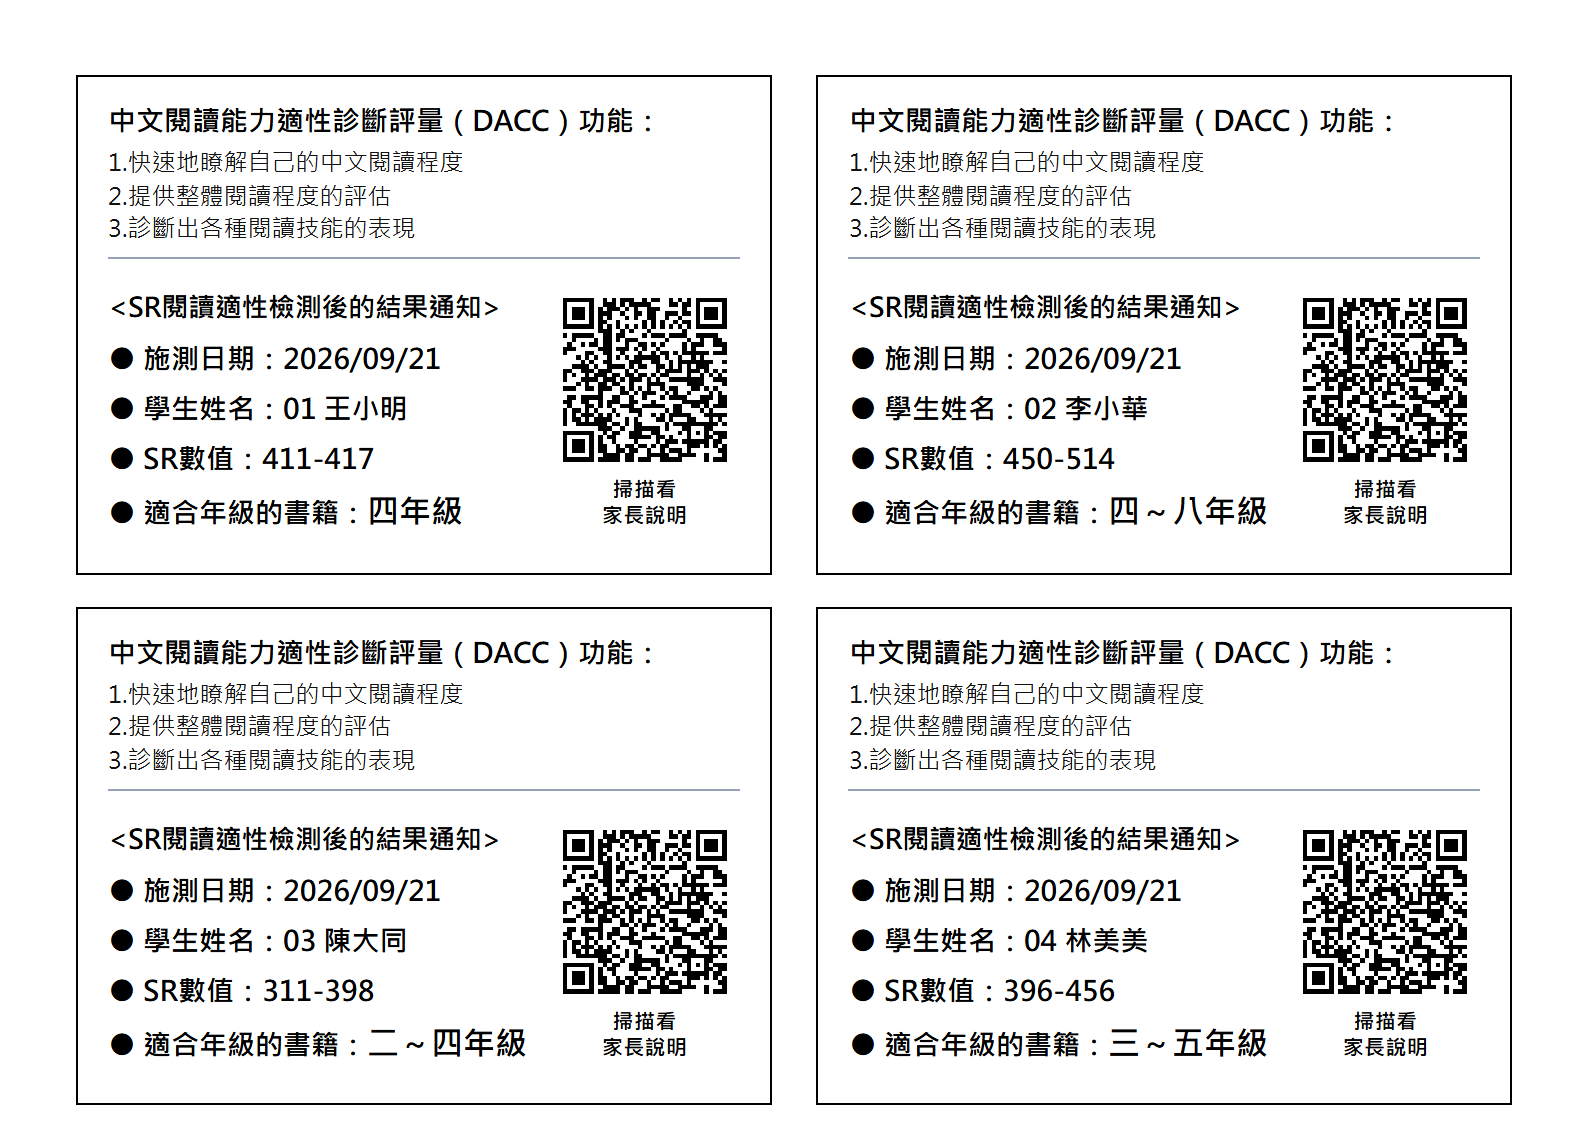
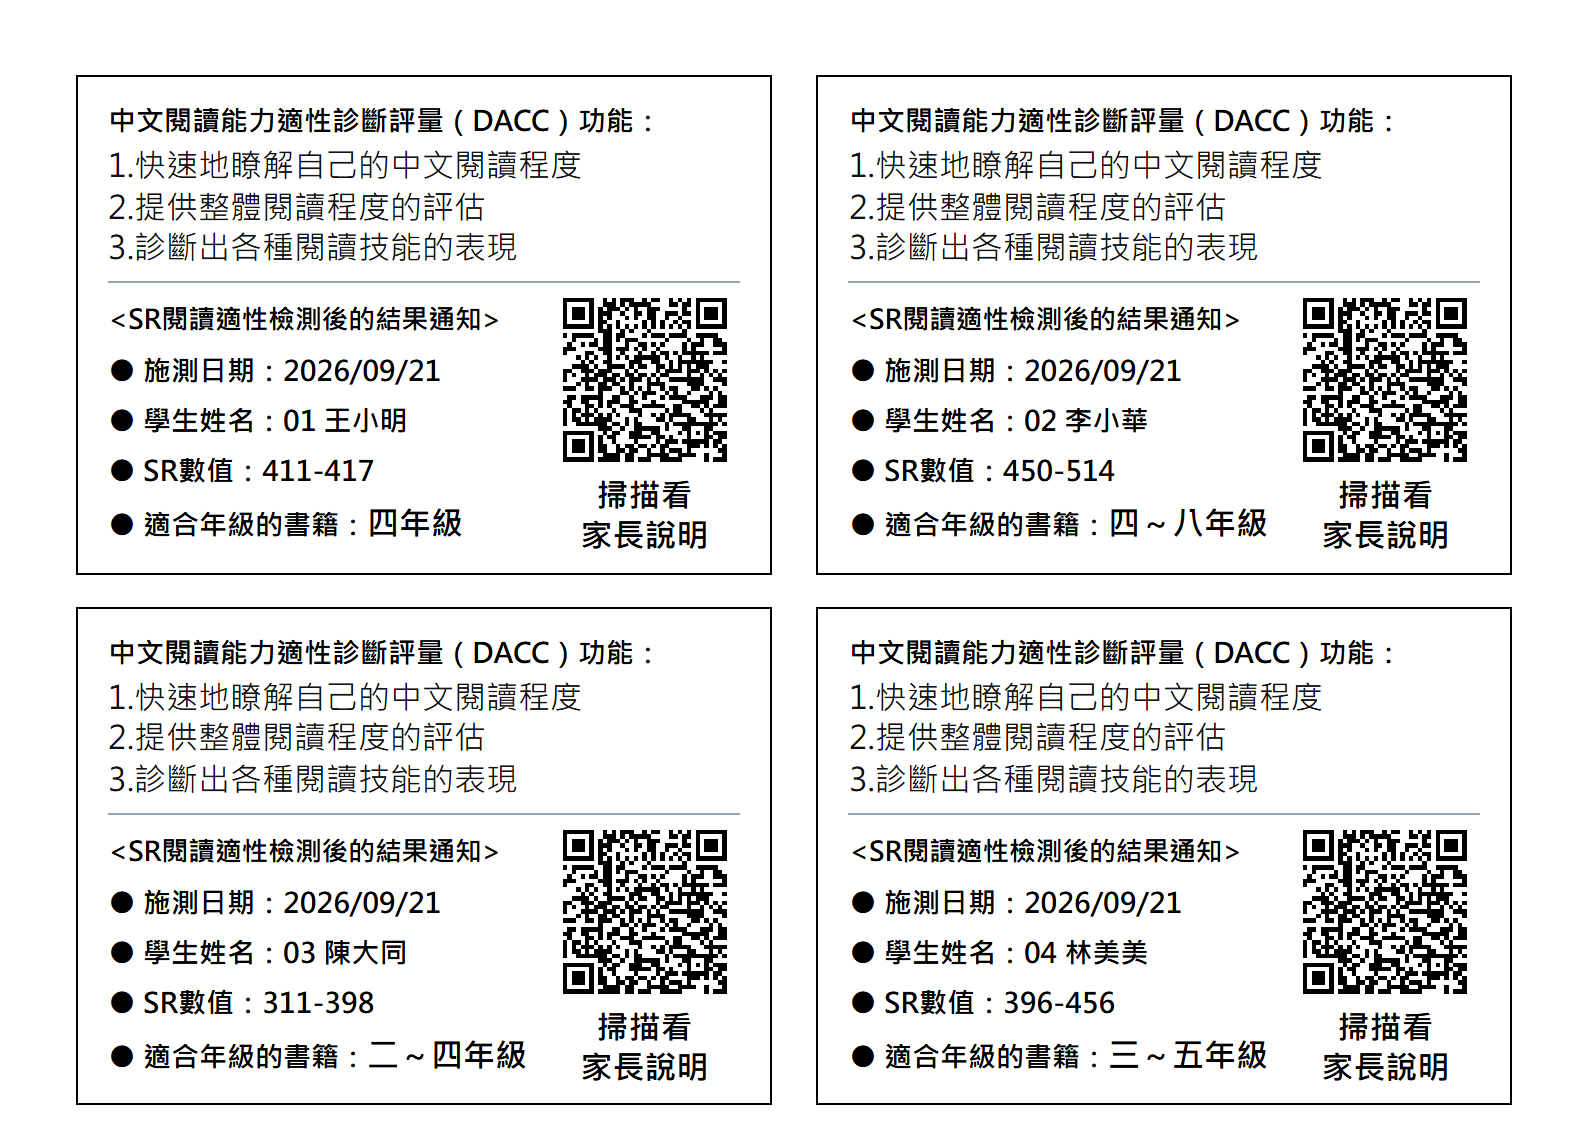
style(sr): 小卡功能說明與 QR 說明改 12pt，長年級清單換行

diff --git a/universal.html b/universal.html
@@ -2917,7 +2917,7 @@
     .card-border-light .sr-card { border: 1px solid #94a3b8; }
     .sr-card-header { border-bottom: 0.3mm solid #94a3b8; padding-bottom: 1.6mm; }
     .sr-card-title { font-size: 10.5pt; font-weight: 800; line-height: 1.3; margin-bottom: 0.6mm; }
-    .sr-card-funcs { font-size: 9pt; line-height: 1.4; color: #111; }
+    .sr-card-funcs { font-size: 12pt; line-height: 1.3; color: #111; }
     .sr-card-body { flex: 1; min-height: 0; display: flex; gap: 3mm; align-items: center; }
     .sr-card-main { flex: 1; min-width: 0; }
     .sr-card-notice-title { font-size: 10pt; font-weight: 800; margin-bottom: 1.8mm; }
@@ -2932,9 +2932,12 @@
     .sr-card.dense .sr-card-info-list { gap: 0.9mm; }
     .sr-card.dense .sr-card-notice-title { margin-bottom: 1mm; }
     .sr-card.dense .sr-card-grade-highlight.long { font-size: 9pt; line-height: 1.2; }
+    /* 年級清單很長時換到標籤下一行，用整行寬度排 */
+    .sr-card-info-item.wrap { flex-wrap: wrap; }
+    .sr-card-info-item.wrap .sr-card-info-value { flex-basis: 100%; padding-left: 1em; }
     .sr-card-qr { width: 25mm; flex-shrink: 0; display: flex; flex-direction: column; align-items: center; text-align: center; }
     .sr-card-qr svg { width: 24mm; height: 24mm; display: block; }
-    .sr-card-qr-cap { font-size: 8pt; line-height: 1.25; margin-top: 0.8mm; font-weight: 600; }
+    .sr-card-qr-cap { font-size: 12pt; line-height: 1.25; margin-top: 0.8mm; font-weight: 600; }
     .sr-card-qr-missing { width: 24mm; height: 24mm; border: 0.3mm dashed #94a3b8; font-size: 7pt; color: #64748b; display: flex; align-items: center; justify-content: center; }
 
     .standalone-warning { margin: 2rem auto; max-width: 560px; padding: 1.25rem; border: 1px solid #fcd34d; background: #fffbeb; border-radius: 10px; color: #92400e; }
@@ -4030,7 +4033,7 @@
                   <li class="sr-card-info-item"><span class="sr-card-info-label">● 施測日期：</span><span class="sr-card-info-value">${esc(e.date || examDate)}</span></li>
                   <li class="sr-card-info-item"><span class="sr-card-info-label">● 學生姓名：</span><span class="sr-card-info-value">${esc(display)}</span></li>
                   <li class="sr-card-info-item"><span class="sr-card-info-label">● SR數值：</span><span class="sr-card-info-value">${esc(e.sr || '-')}</span></li>
-                  <li class="sr-card-info-item"><span class="sr-card-info-label">● 適合年級的書籍：</span><span class="sr-card-info-value sr-card-grade-highlight${gradeText.length > 8 ? ' long' : ''}">${esc(gradeText)}</span></li>
+                  <li class="sr-card-info-item${gradeText.length > 14 ? ' wrap' : ''}"><span class="sr-card-info-label">● 適合年級的書籍：</span><span class="sr-card-info-value sr-card-grade-highlight${gradeText.length > 8 ? ' long' : ''}">${esc(gradeText)}</span></li>
                   ${hist}
                 </ul>
               </div>

diff --git a/sr-reading/sr-tool.html b/sr-reading/sr-tool.html
@@ -157,7 +157,7 @@
     .card-border-light .sr-card { border: 1px solid #94a3b8; }
     .sr-card-header { border-bottom: 0.3mm solid #94a3b8; padding-bottom: 1.6mm; }
     .sr-card-title { font-size: 10.5pt; font-weight: 800; line-height: 1.3; margin-bottom: 0.6mm; }
-    .sr-card-funcs { font-size: 9pt; line-height: 1.4; color: #111; }
+    .sr-card-funcs { font-size: 12pt; line-height: 1.3; color: #111; }
     .sr-card-body { flex: 1; min-height: 0; display: flex; gap: 3mm; align-items: center; }
     .sr-card-main { flex: 1; min-width: 0; }
     .sr-card-notice-title { font-size: 10pt; font-weight: 800; margin-bottom: 1.8mm; }
@@ -172,9 +172,12 @@
     .sr-card.dense .sr-card-info-list { gap: 0.9mm; }
     .sr-card.dense .sr-card-notice-title { margin-bottom: 1mm; }
     .sr-card.dense .sr-card-grade-highlight.long { font-size: 9pt; line-height: 1.2; }
+    /* 年級清單很長時換到標籤下一行，用整行寬度排 */
+    .sr-card-info-item.wrap { flex-wrap: wrap; }
+    .sr-card-info-item.wrap .sr-card-info-value { flex-basis: 100%; padding-left: 1em; }
     .sr-card-qr { width: 25mm; flex-shrink: 0; display: flex; flex-direction: column; align-items: center; text-align: center; }
     .sr-card-qr svg { width: 24mm; height: 24mm; display: block; }
-    .sr-card-qr-cap { font-size: 8pt; line-height: 1.25; margin-top: 0.8mm; font-weight: 600; }
+    .sr-card-qr-cap { font-size: 12pt; line-height: 1.25; margin-top: 0.8mm; font-weight: 600; }
     .sr-card-qr-missing { width: 24mm; height: 24mm; border: 0.3mm dashed #94a3b8; font-size: 7pt; color: #64748b; display: flex; align-items: center; justify-content: center; }
 
     .standalone-warning { margin: 2rem auto; max-width: 560px; padding: 1.25rem; border: 1px solid #fcd34d; background: #fffbeb; border-radius: 10px; color: #92400e; }
@@ -1270,7 +1273,7 @@
                   <li class="sr-card-info-item"><span class="sr-card-info-label">● 施測日期：</span><span class="sr-card-info-value">${esc(e.date || examDate)}</span></li>
                   <li class="sr-card-info-item"><span class="sr-card-info-label">● 學生姓名：</span><span class="sr-card-info-value">${esc(display)}</span></li>
                   <li class="sr-card-info-item"><span class="sr-card-info-label">● SR數值：</span><span class="sr-card-info-value">${esc(e.sr || '-')}</span></li>
-                  <li class="sr-card-info-item"><span class="sr-card-info-label">● 適合年級的書籍：</span><span class="sr-card-info-value sr-card-grade-highlight${gradeText.length > 8 ? ' long' : ''}">${esc(gradeText)}</span></li>
+                  <li class="sr-card-info-item${gradeText.length > 14 ? ' wrap' : ''}"><span class="sr-card-info-label">● 適合年級的書籍：</span><span class="sr-card-info-value sr-card-grade-highlight${gradeText.length > 8 ? ' long' : ''}">${esc(gradeText)}</span></li>
                   ${hist}
                 </ul>
               </div>

diff --git a/CHANGELOG.md b/CHANGELOG.md
@@ -1,12 +1,12 @@
 # CHANGELOG — 班級計時器
 
-## universal.html v1.11 — SR 小卡版面重排＋家長說明 QR Code、匯入前名冊檢查（2026-10-10，本機）
-- 小卡改為「上方標題與功能說明、下方左邊結果、右邊 QR Code」，不再上下撐開留一大塊空白；字級放大（功能說明 7.2→9pt、結果 8.5→10.5pt、適讀年級 12pt）。內容多時（完整列出很多年級、加印前一次 SR）自動排緊，兩種模式都不裁切。
+## universal.html v1.11 — SR 小卡版面重排＋家長說明 QR Code、匯入前名冊檢查（2026-10-10）
+- 小卡改為「上方標題與功能說明、下方左邊結果、右邊 QR Code」，不再上下撐開留一大塊空白；字級放大（功能說明與 QR 說明 12pt、結果 10.5pt、適讀年級 12pt）。內容多時（完整列出很多年級、加印前一次 SR）自動排緊，年級清單過長時換到下一行，兩種模式都不裁切。
 - 新增公開的家長說明頁 `sr-reading/parent.html`（什麼是 SR、小卡怎麼看、選書、常模表；不含學生資料），小卡 QR Code 預設連到這頁；列印設定可改連結或清空不印，設定存在 `ctu_sr_records.settings`。QR 由 qrcode-generator（cdnjs）產生，自己畫成 SVG，300 dpi 列印品質 8 張全部可解碼。
 - 匯入／貼上前先試算：座號相同但姓名不同、或不在名冊的筆數比能寫入的多時，先跳確認（多半是班級設定的名冊還不是這個班），按取消不寫入任何資料。
 - 使用說明 SR 章節補 QR 說明並更新小卡截圖。測試新增 T18～T20，全部 58 項通過。
 
-## universal.html v1.11 — SR 閱讀小卡加「📄 下載空白範本」（2026-10-10，本機）
+## universal.html v1.11 — SR 閱讀小卡加「📄 下載空白範本」（2026-10-10）
 - 工具列新增「📄 下載空白範本」：依目前名冊與選定學期產生 .xlsx（座號、全名、測驗時間、就讀年級、`SR(115-1)`），附「填寫說明」工作表；填好直接用「📁 匯入 Excel」匯回。
 - 新增測試用範例檔 `sr-reading/範例/SR匯入範例_單一學期.xlsx`、`SR匯入範例_跨學期.xlsx`（含名冊外座號，可看到略過提示）。
 - 匯入提示分開顯示「寫入 N 位」與「M 位沒有填 SR，保留原狀」（原本把空白列也算成寫入）。
